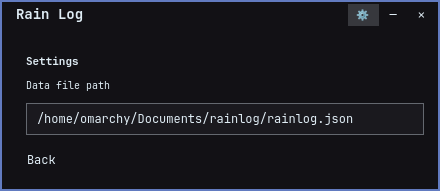
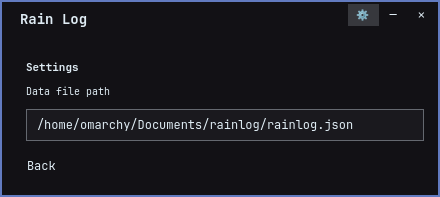
Inset the title below the window controls

diff --git a/qml/Main.qml b/qml/Main.qml
@@ -117,13 +117,16 @@ Window {
       anchors.topMargin: 2
       anchors.leftMargin: 2
       anchors.rightMargin: 2
-      height: Math.max(26, titleControls.implicitHeight + Theme.space(4))
+      height: Math.max(32, titleControls.implicitHeight + Theme.space(10))
 
       MouseArea {
         anchors.fill: parent
         onPressed: window.startSystemMove()
       }
 
+      // The title sits a little lower than the window controls, with a little
+      // air above and to the left, so it reads as a title rather than a label
+      // pinned to the corner.
       Text {
         textFormat: Text.PlainText
         text: "Rain Log"
@@ -132,15 +135,17 @@ Window {
         font.pixelSize: Theme.font.title
         font.bold: true
         anchors.left: parent.left
-        anchors.leftMargin: Theme.spacing.popupPadding
-        anchors.verticalCenter: parent.verticalCenter
+        anchors.leftMargin: Theme.space(18)
+        anchors.top: parent.top
+        anchors.topMargin: Theme.space(8)
       }
 
       Row {
         id: titleControls
+        anchors.top: parent.top
+        anchors.topMargin: Theme.space(2)
         anchors.right: parent.right
         anchors.rightMargin: Theme.space(4)
-        anchors.verticalCenter: parent.verticalCenter
         spacing: Theme.space(2)
 
         Button {
